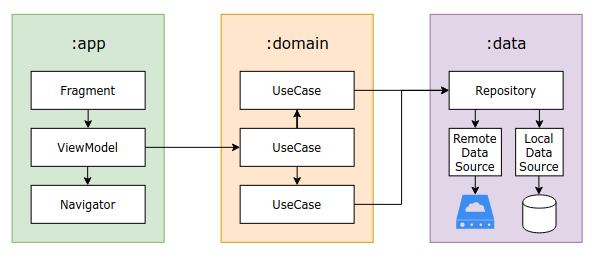
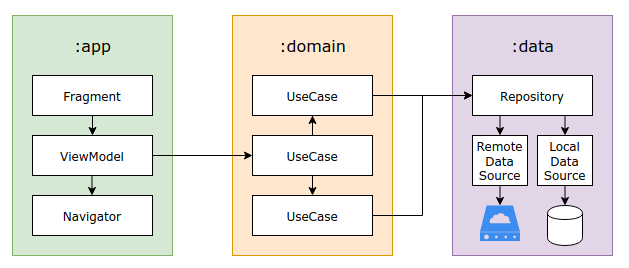
chore: fixes README typo issues and adds drafts
- fixes README typo issues
- adds drafts pictures into README

diff --git a/README.md b/README.md
@@ -3,14 +3,12 @@
 ![Android Pull Request CI](https://github.com/bfpimentel/chuck-norris-app/workflows/Android%20Pull%20Request%20CI/badge.svg)
 [![Codecov](https://codecov.io/github/bfpimentel/chuck-norris-app/coverage.svg?branch=develop)](https://codecov.io/gh/bfpimentel/chuck-norris-app)
 
-## Disclaimer
-There is a lot of dependencies on this projects (at least that's what I think).  Although, it's also a showcase project, I tried to show what are my skills using these APIs. Maybe the complexity inside this project was overkill to its size, but I think it was the best decision.
+## Introduction
+Android application using all that I know at the moment and [Chuck Norris Facts API](https://api.chucknorris.io/).
 
-Each of the features has its on [branch](https://github.com/bfpimentel/chuck-norris-app/branches) and all of them are mapped inside the issue [Feature Roadmap](https://github.com/bfpimentel/chuck-norris-app/issues/1).
+There is a lot of dependencies inside this project (at least that's what I think). Although, it's also a showcase project, I tried to show what are my skills using these APIs. Maybe the complexity was overkill to its size, but I think it was the best decision.
 
-The project contains only one activity hosting the Navigation Controller and all the screens are Fragments.
-
-It uses Github Actions to run the CI Script whenever a Pull Request is opened.
+Each of the features has its on [branch](https://github.com/bfpimentel/chuck-norris-app/branches) and all of them are mapped inside the issue [Feature Roadmap](https://github.com/bfpimentel/chuck-norris-app/issues/1). I followed the [**conventional**](https://www.conventionalcommits.org/en/v1.0.0/) [commits messages](https://github.com/bfpimentel/chuck-norris-app/commits/develop).
 
 Also, my UI/UX skills are bad.
 
@@ -18,10 +16,11 @@ Also, my UI/UX skills are bad.
 Just clone the project wherever you want, no further setup needed :)
 
 ## Architecture Explanation
-I choose to modularize the project layers focusing on Clean Architecture principles and ease to scale and to maintain.
+I choose to modularize the project layers focusing on ease to scale and to maintain, following Clean Architecture principles.
 
 <p align="middle">
     <img src="./resources/architecture.png">
+    <p style="text-align:center"><i>This is a representation of the architecture, the connection between UseCases are not obligatory, more details below.</i></p>
 </p>
 
 ### :app
@@ -33,9 +32,9 @@ This is the presentation layer, it is responsible for what the user sees.
 
 ---
 ### :domain
-This is the domain layer, it holds the entities and is responsible to talk to *data* module.
+This is the domain layer, it holds the entities and it is responsible to talk to *data* module.
 
-- **UseCase**: It is responsbile for the business rules on the application, it talks directly to the data module or another use cases.
+- **UseCase**: It is responsbile for the business rules on the application, it talks directly to the repositories inside data module or another use cases.
 
 ---
 ### :data
@@ -52,9 +51,7 @@ This is the data layer, it does not contain any business rules, it is responsibl
     <img src="./resources/facts.png" width="360">
 </p>
 
-These are the Facts screen.
-
-The first screen is when the user is first accessing it (or at least when there is not any searches yet), and the second one is when the user already searched for something and the screen is listing its results.
+These are the Facts screen. The first screen is when the user is first accessing it (or at least when there are not any searches yet), and the second one is when the user already searched for something and the screen is listing its results.
 
 ---
 ### Search
@@ -62,23 +59,27 @@ The first screen is when the user is first accessing it (or at least when there 
     <img src="./resources/search.png" width="360">
 </p>
 
-This is the Search screen.
+This is the Search screen. It contains a search field for manual searching, a suggestions list and the last searches. After making a search, the user is redirected back to the *Facts* screen.
 
-It contains a search field for manual searching, a suggestions list and the last searches. After making a search, the user is redirected back to the *Facts* screen.
-
-- **Search field**: It accepts just text and numbers, it is used to search for something manually, besides the suggestions. The search can be triggered tapping on the Search icon on the field or on the keyboard.
-- **Suggestions**: A list of suggestions that comes from the API, it is random and it's always 8 of them. If the last search term is equal to one of the suggestions, it's going to be in a different color. Any of them can be tapped to use as search term.
-- **Last searches**: A list of the last ten searches, ordering the most recent to the oldest. Any of them can be tapped to use as search term.
+- **Search field**: It accepts just text and numbers, it is used to search for something manually, besides the suggestions. The search can be triggered tapping on the search icon in the field or on the keyboard.
+- **Suggestions**: A list of suggestions that comes from the API firstly, after they come from the local database, it is random and it's always 8 of them. If the last search term is equal to one of the suggestions, it's going to be in a different color. Any of them can be tapped to be used as a search term.
+- **Last searches**: A list of the last ten searches, ordering the most recent to the oldest. Any of them can be tapped to be used as a search term. There is an issue explaining how I made the listing: [Last Searches Rules](https://github.com/bfpimentel/chuck-norris-app/issues/24).
 
 ---
 ## Continuous Integration
-As said above, the project uses Github Action to run the [CI script](./.github/workflows/android-pr.yml) when a Pull Request is opened.
+The project uses Github Action to run the [CI script](./.github/workflows/android-pr.yml) when a Pull Request is opened.
 
-- **Static code analysis**: The script uses the *detekt* gradle plugin to check if all the code is formatted consistently.
+- **Static code analysis**: The script uses the *detekt* gradle plugin to check if all the code is formatted consistently and there is not **any** issues with complexity.
 - **Code coverage**: *JUnit5* is responsible for running the unit tests, *Jacoco* is responsible for generating the test report and then Codecov.io checks if the coverage is the expected.
 
 <p align="middle">
     <a href="https://codecov.io/gh/bfpimentel/chuck-norris-app">
         <img src="https://codecov.io/gh/bfpimentel/chuck-norris-app/branch/develop/graphs/tree.svg">
     </a>
+</p> 
+
+## Drafts
+<p align="middle">
+    <img src="./resources/feature-roadmap-draft.jpg" width="480">
+    <img src="./resources/last-searches-rules-draft.jpg" width="360">
 </p>
